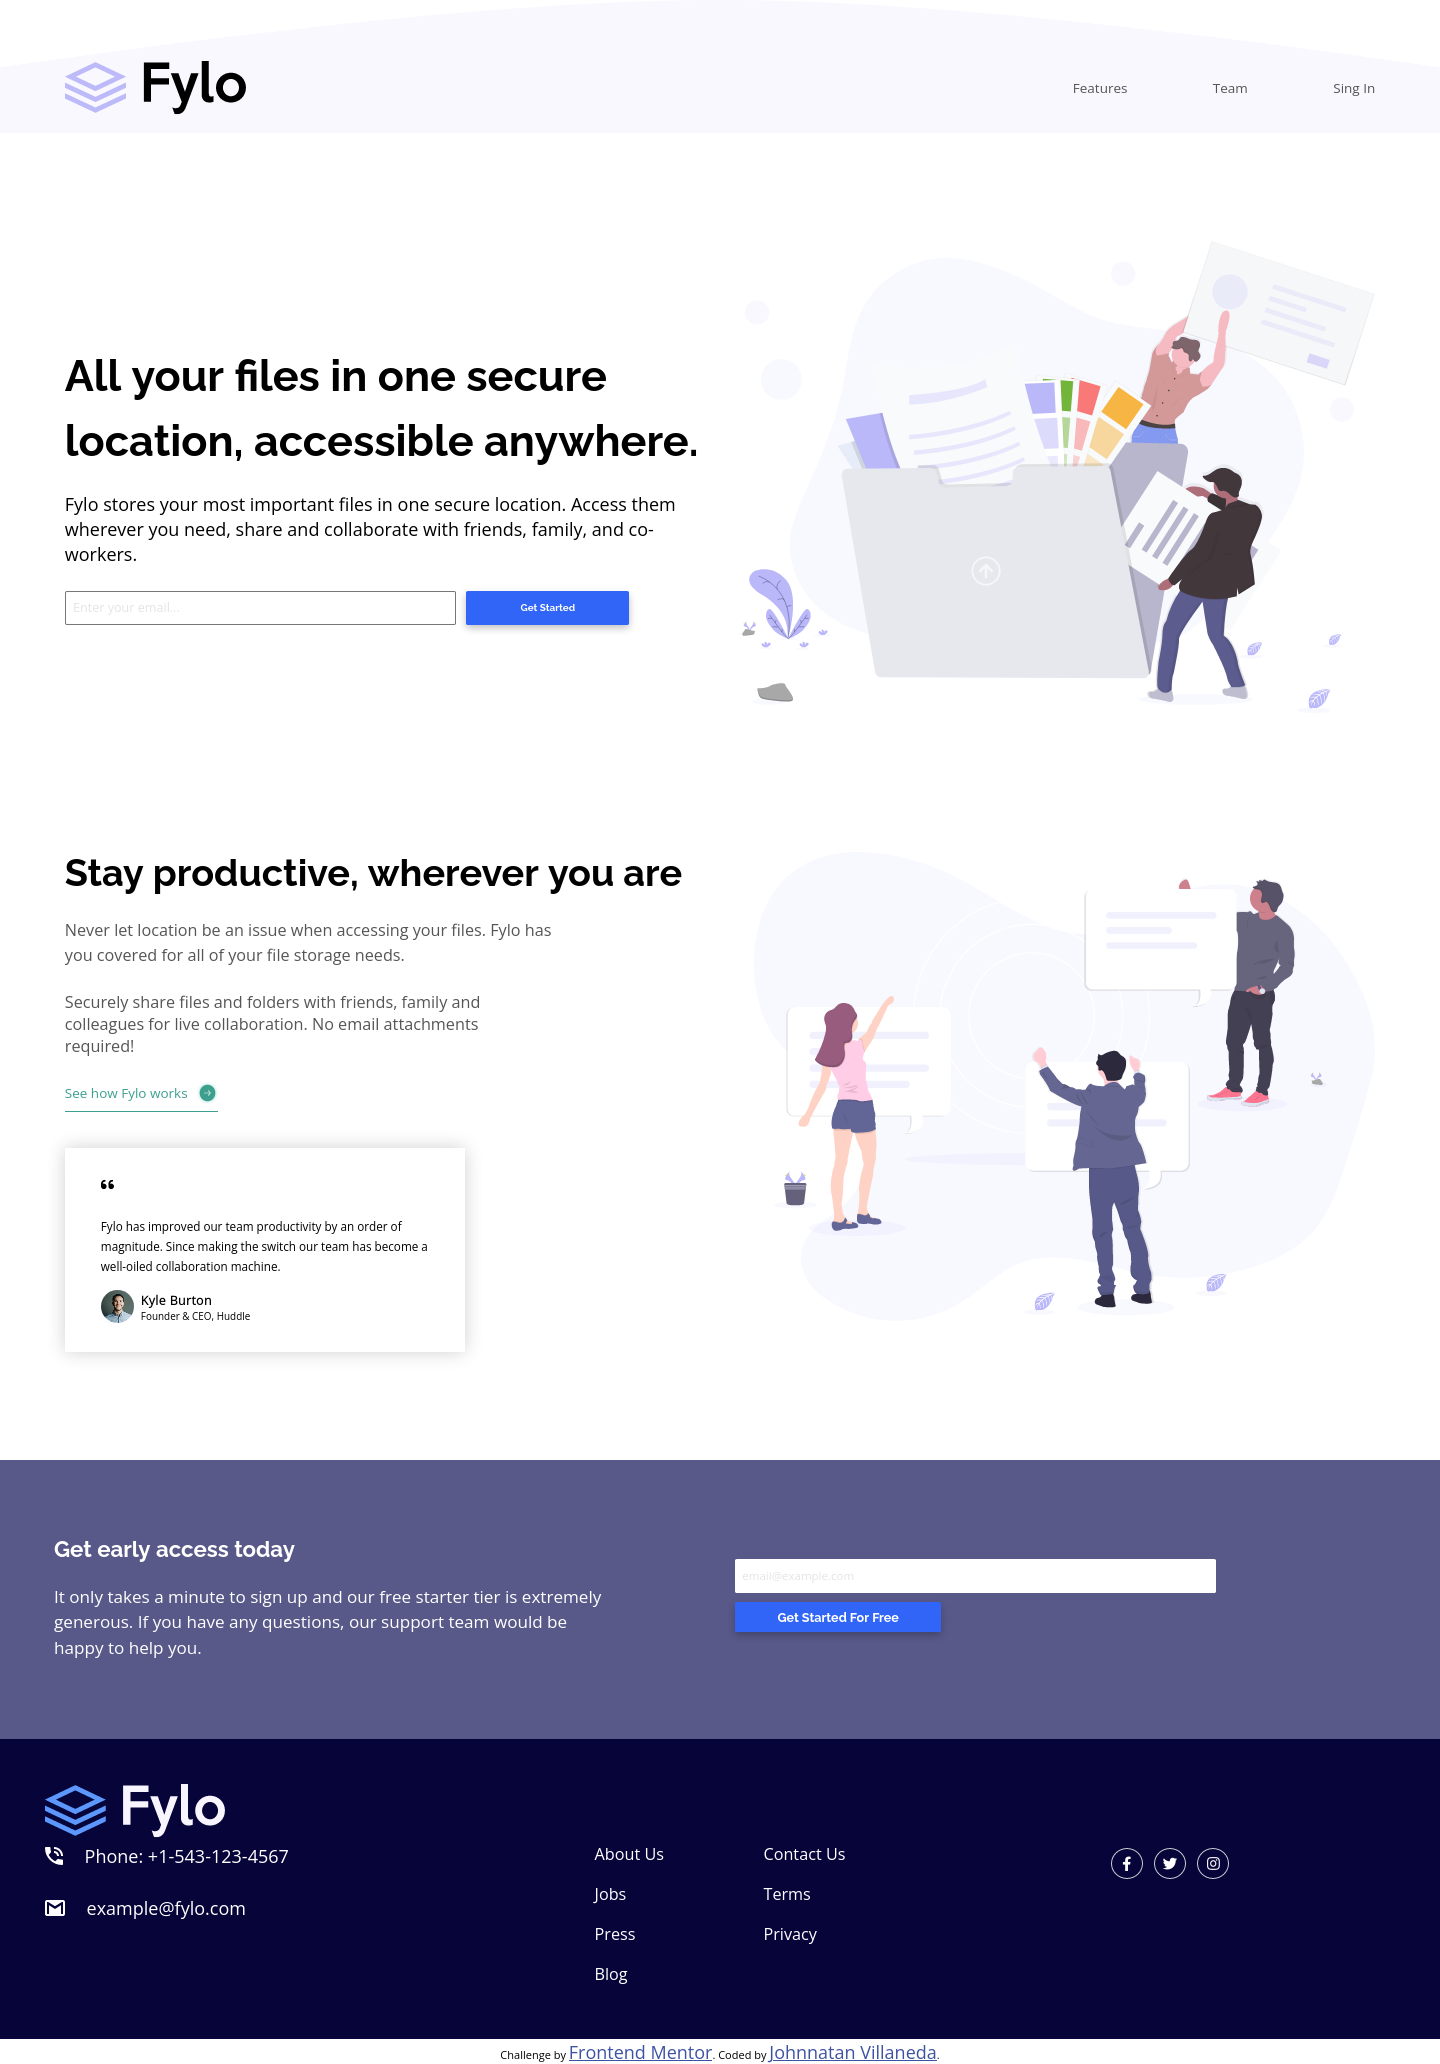
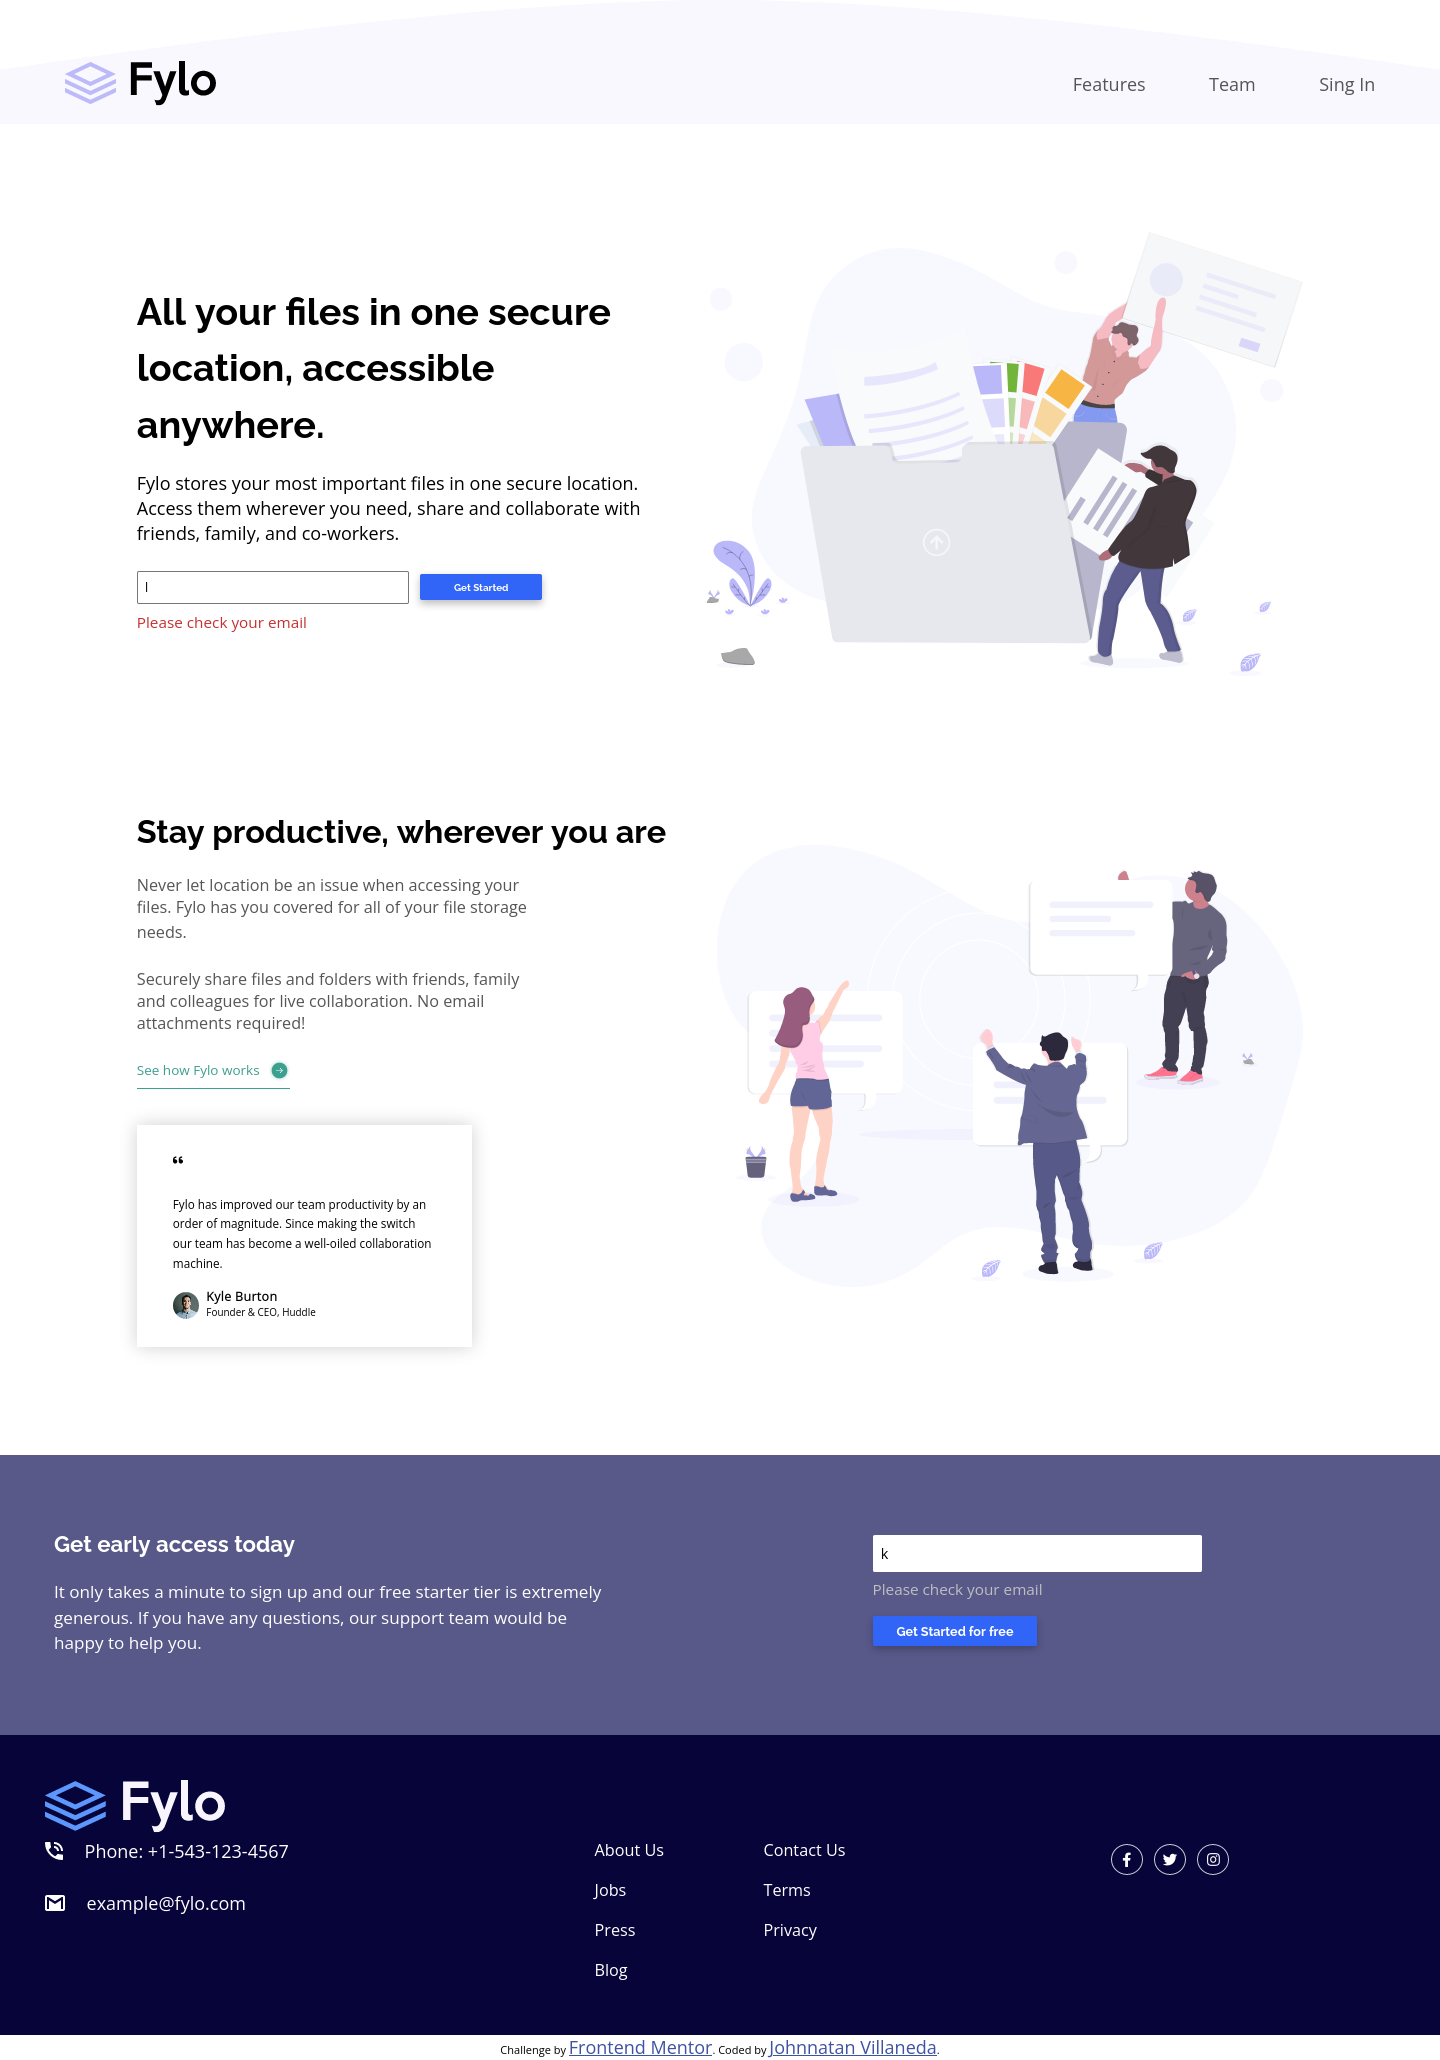
Finaly finished the challenge

diff --git a/style.css b/style.css
@@ -128,11 +128,15 @@ header {
   font-family: var(--Open-sans);
 }
 
+.box-input,
+.box-btn {
+  margin-bottom: 0.5rem;
+}
+
 .form__box-input,
 .form__box-btn {
   width: 100%;
   padding: 0.8rem;
-  margin-bottom: 0.5rem;
   border-radius: 0.1rem;
   outline: none;
   border: 0.1rem solid #777;
@@ -169,13 +173,26 @@ header {
 
 /* Input Error */
 
-.box-input[data-error] .form__box-input {
-  border-color: red;
+.form__box-input:invalid:not(:focus):not(:placeholder-shown) ~ .error {
+  max-height: 10rem;
+  padding: 0.4rem 0;
 }
 
-.box-input[data-error]::after {
-  display: block;
-  content: attr(data-error);
+.error {
+  margin: 0;
+  text-align: left;
+  color: #c73030;
+  max-height: 0;
+  transition: 0.28s;
+  overflow: hidden;
+}
+
+.error p {
+  font-size: 0.7em;
+}
+
+.box-3 .error {
+  color: var(--Light-Gray);
 }
 
 /* Boxes */
@@ -444,9 +461,16 @@ header {
 
   /* Form */
 
+  .box-input,
+  .box-btn {
+    width: 60%;
+    margin-left: auto;
+    margin-right: auto;
+  }
+
   .form__box-input,
   .form__box-btn {
-    width: 60%;
+    width: 100%;
     padding: 0.5rem;
   }
 
@@ -459,6 +483,12 @@ header {
 
   .box-3 {
     margin: 0;
+  }
+
+  /* Error */
+
+  .error p {
+    font-size: 0.85em;
   }
 }
 
@@ -509,7 +539,7 @@ header {
 
   .box-1 .form__box-btn {
     margin-left: 0.6rem;
-    width: 32%;
+    width: 60%;
   }
 
   .box-1 .form__box-input,
@@ -536,11 +566,11 @@ header {
   }
 
   .box-3 .form__box-input {
-    width: 70%;
+    width: 100%;
   }
 
   .box-3 .form__box-btn {
-    width: 35%;
+    width: 55%;
   }
 
   .box-3 .form__box-input,
@@ -617,7 +647,7 @@ header {
 
   .box-1 .form__box-btn {
     font-size: 0.55em;
-    width: 25%;
+    width: 45%;
   }
 
   .box-2 .content__box-info-tittle {
@@ -655,16 +685,26 @@ header {
   }
 
   .box-3 .form__box-input {
-    width: 60%;
+    width: 80%;
   }
 
   .box-3 .form__box-btn {
-    width: 20%;
+    width: 40%;
   }
 
   .box-3 .form__box-input,
   .box-3 .form__box-btn {
     margin-left: 2rem;
     padding: 0.4rem;
+  }
+
+  /* Error */
+
+  .box-3 .error {
+    margin-left: 2rem;
+  }
+
+  .error p {
+    font-size: 0.85em;
   }
 }

diff --git a/index.html b/index.html
@@ -49,12 +49,15 @@
               family, and co-workers.
             </p>
             <form action="" class="form__box">
-              <div class="box-input" data-error="Please check your email">
+              <div class="box-input">
                 <input
                   type="email"
                   class="form__box-input"
                   placeholder="Enter your email..."
                 />
+                <div class="error">
+                  <p>Please check your email</p>
+                </div>
               </div>
               <div class="box-btn">
                 <button type="submit" class="form__box-btn">Get Started</button>
@@ -121,15 +124,22 @@
               would be happy to help you.
             </p>
           </div>
-          <form action="" class="form__box" error="Please check your email">
-            <input
-              type="email"
-              class="form__box-input"
-              placeholder="email@example.com"
-            />
-            <button type="submit" class="form__box-btn">
-              Get Started For Free
-            </button>
+          <form action="" class="form__box">
+            <div class="box-input">
+              <input
+                type="email"
+                class="form__box-input"
+                placeholder="Enter your email..."
+              />
+              <div class="error">
+                <p>Please check your email</p>
+              </div>
+            </div>
+            <div class="box-btn">
+              <button type="submit" class="form__box-btn">
+                Get Started for free
+              </button>
+            </div>
           </form>
         </div>
       </main>
